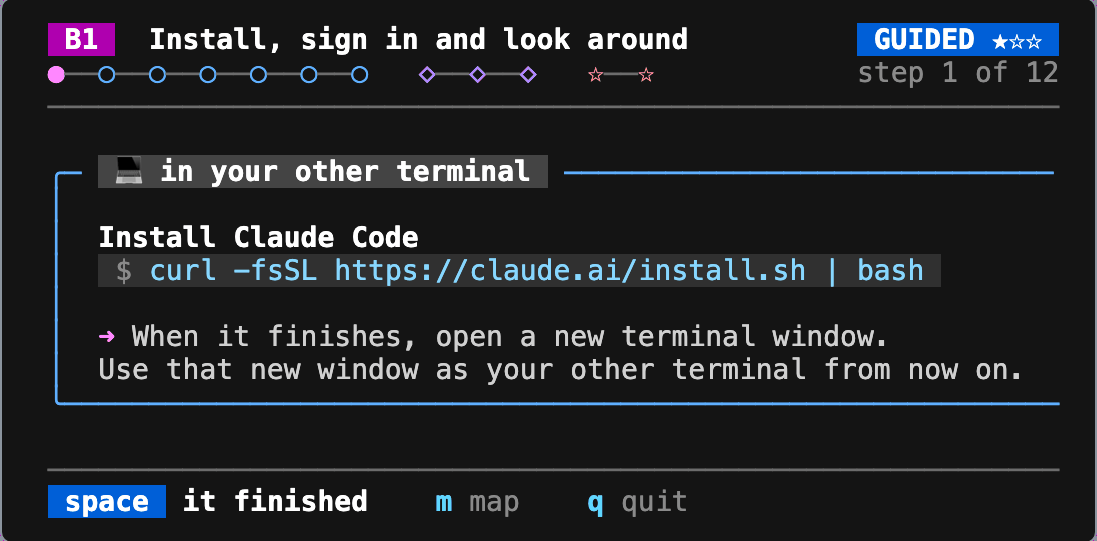
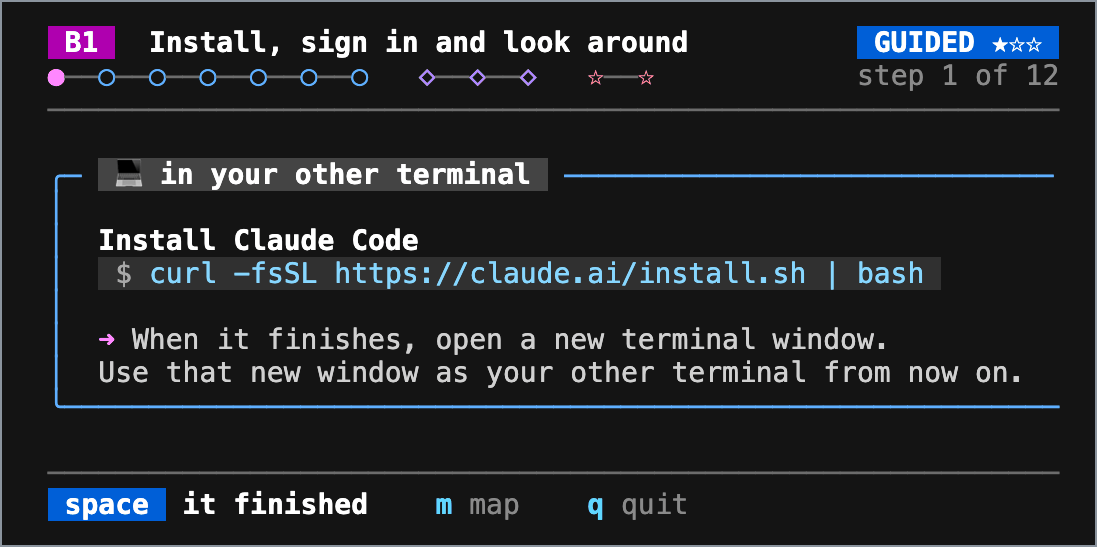
docs: retake README's captures with full borders and a readable prompt, and say where each check runs

diff --git a/README.md b/README.md
@@ -61,7 +61,7 @@ enter  next: Start, sign in, trust    b back    m map    q quit
 
 The app teaches Beginner lesson 1 step by step; for the other Beginner lessons, it watches the lesson's check while you follow the page. It has no AI in it and changes none of your work: it reads your files, runs `git status` and the lesson's check, and writes only its own file.
 
-Prefer to read? Every lesson works from its page alone. Do it in your copy, then run the lesson's check, for example `npm run check -- b-1`. Each item prints `PASS` or `FAIL`, with a hint for what to fix.
+Prefer to read? Every lesson works from its page alone. Each core lesson ends with a check you run from your practice copy, for example `npm run check -- b-1`: each item prints `PASS` or `FAIL`, with a hint for what to fix.
 
 ## Help that fades as you learn
 
